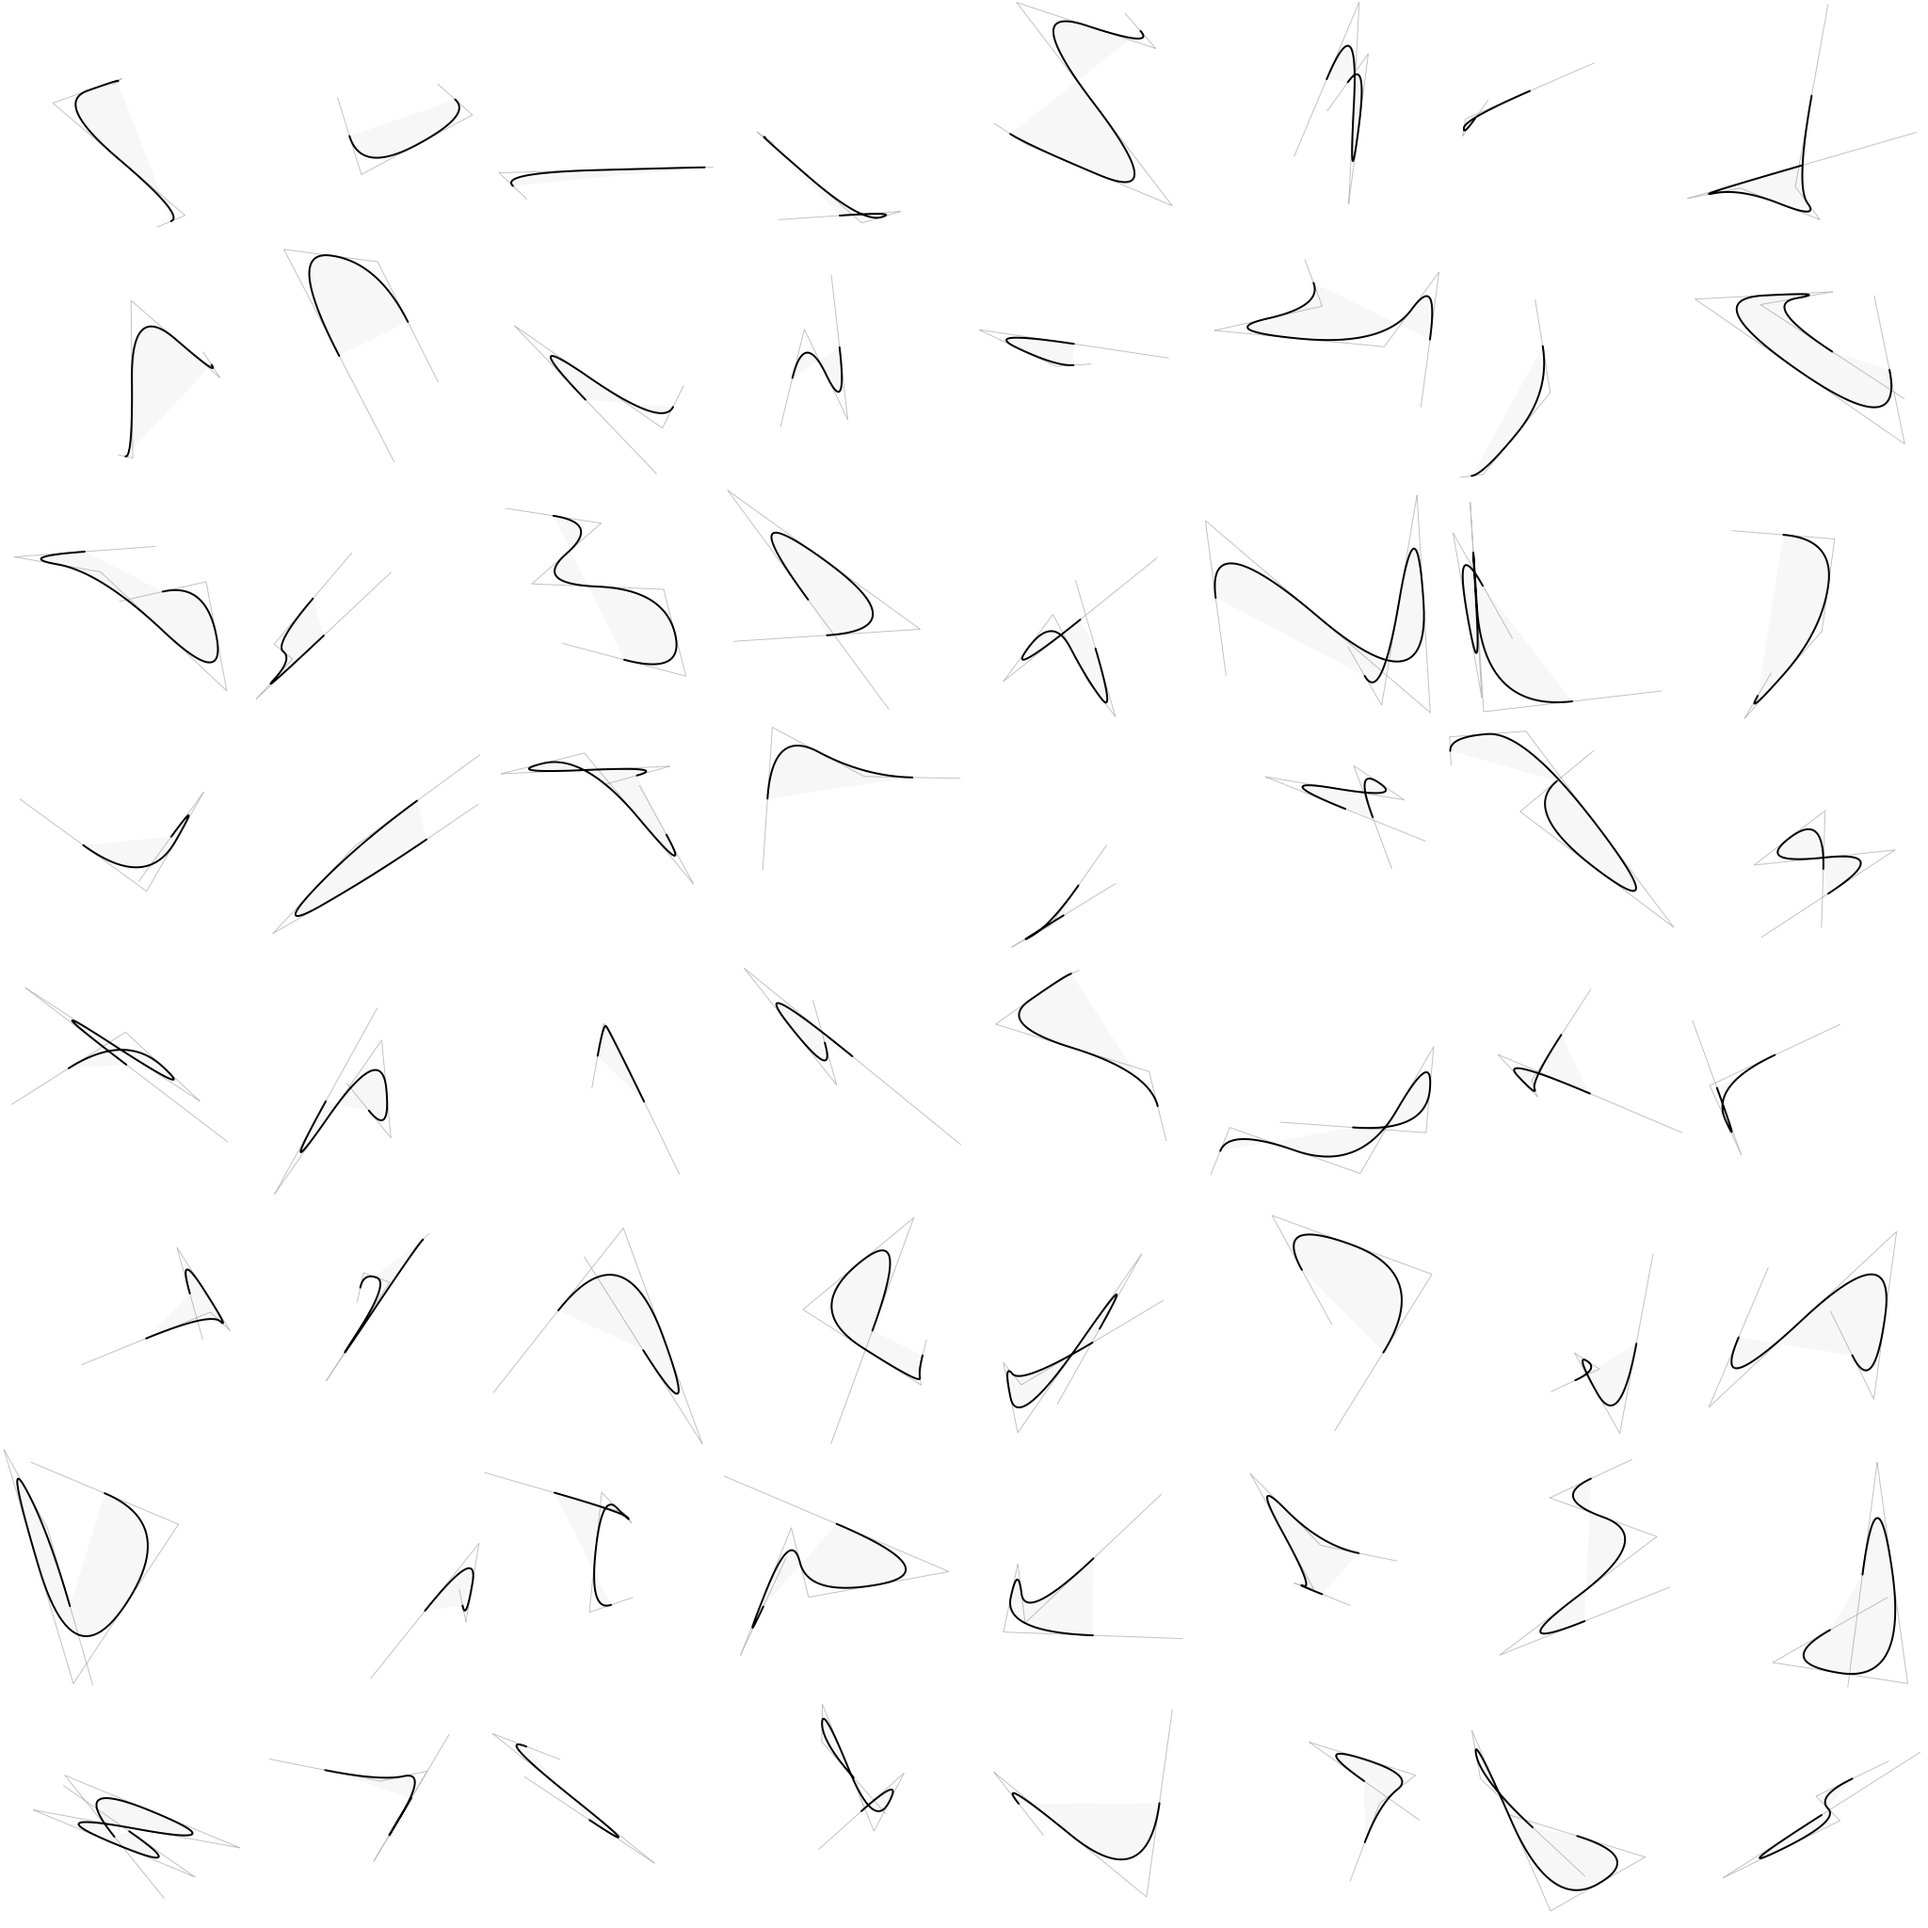
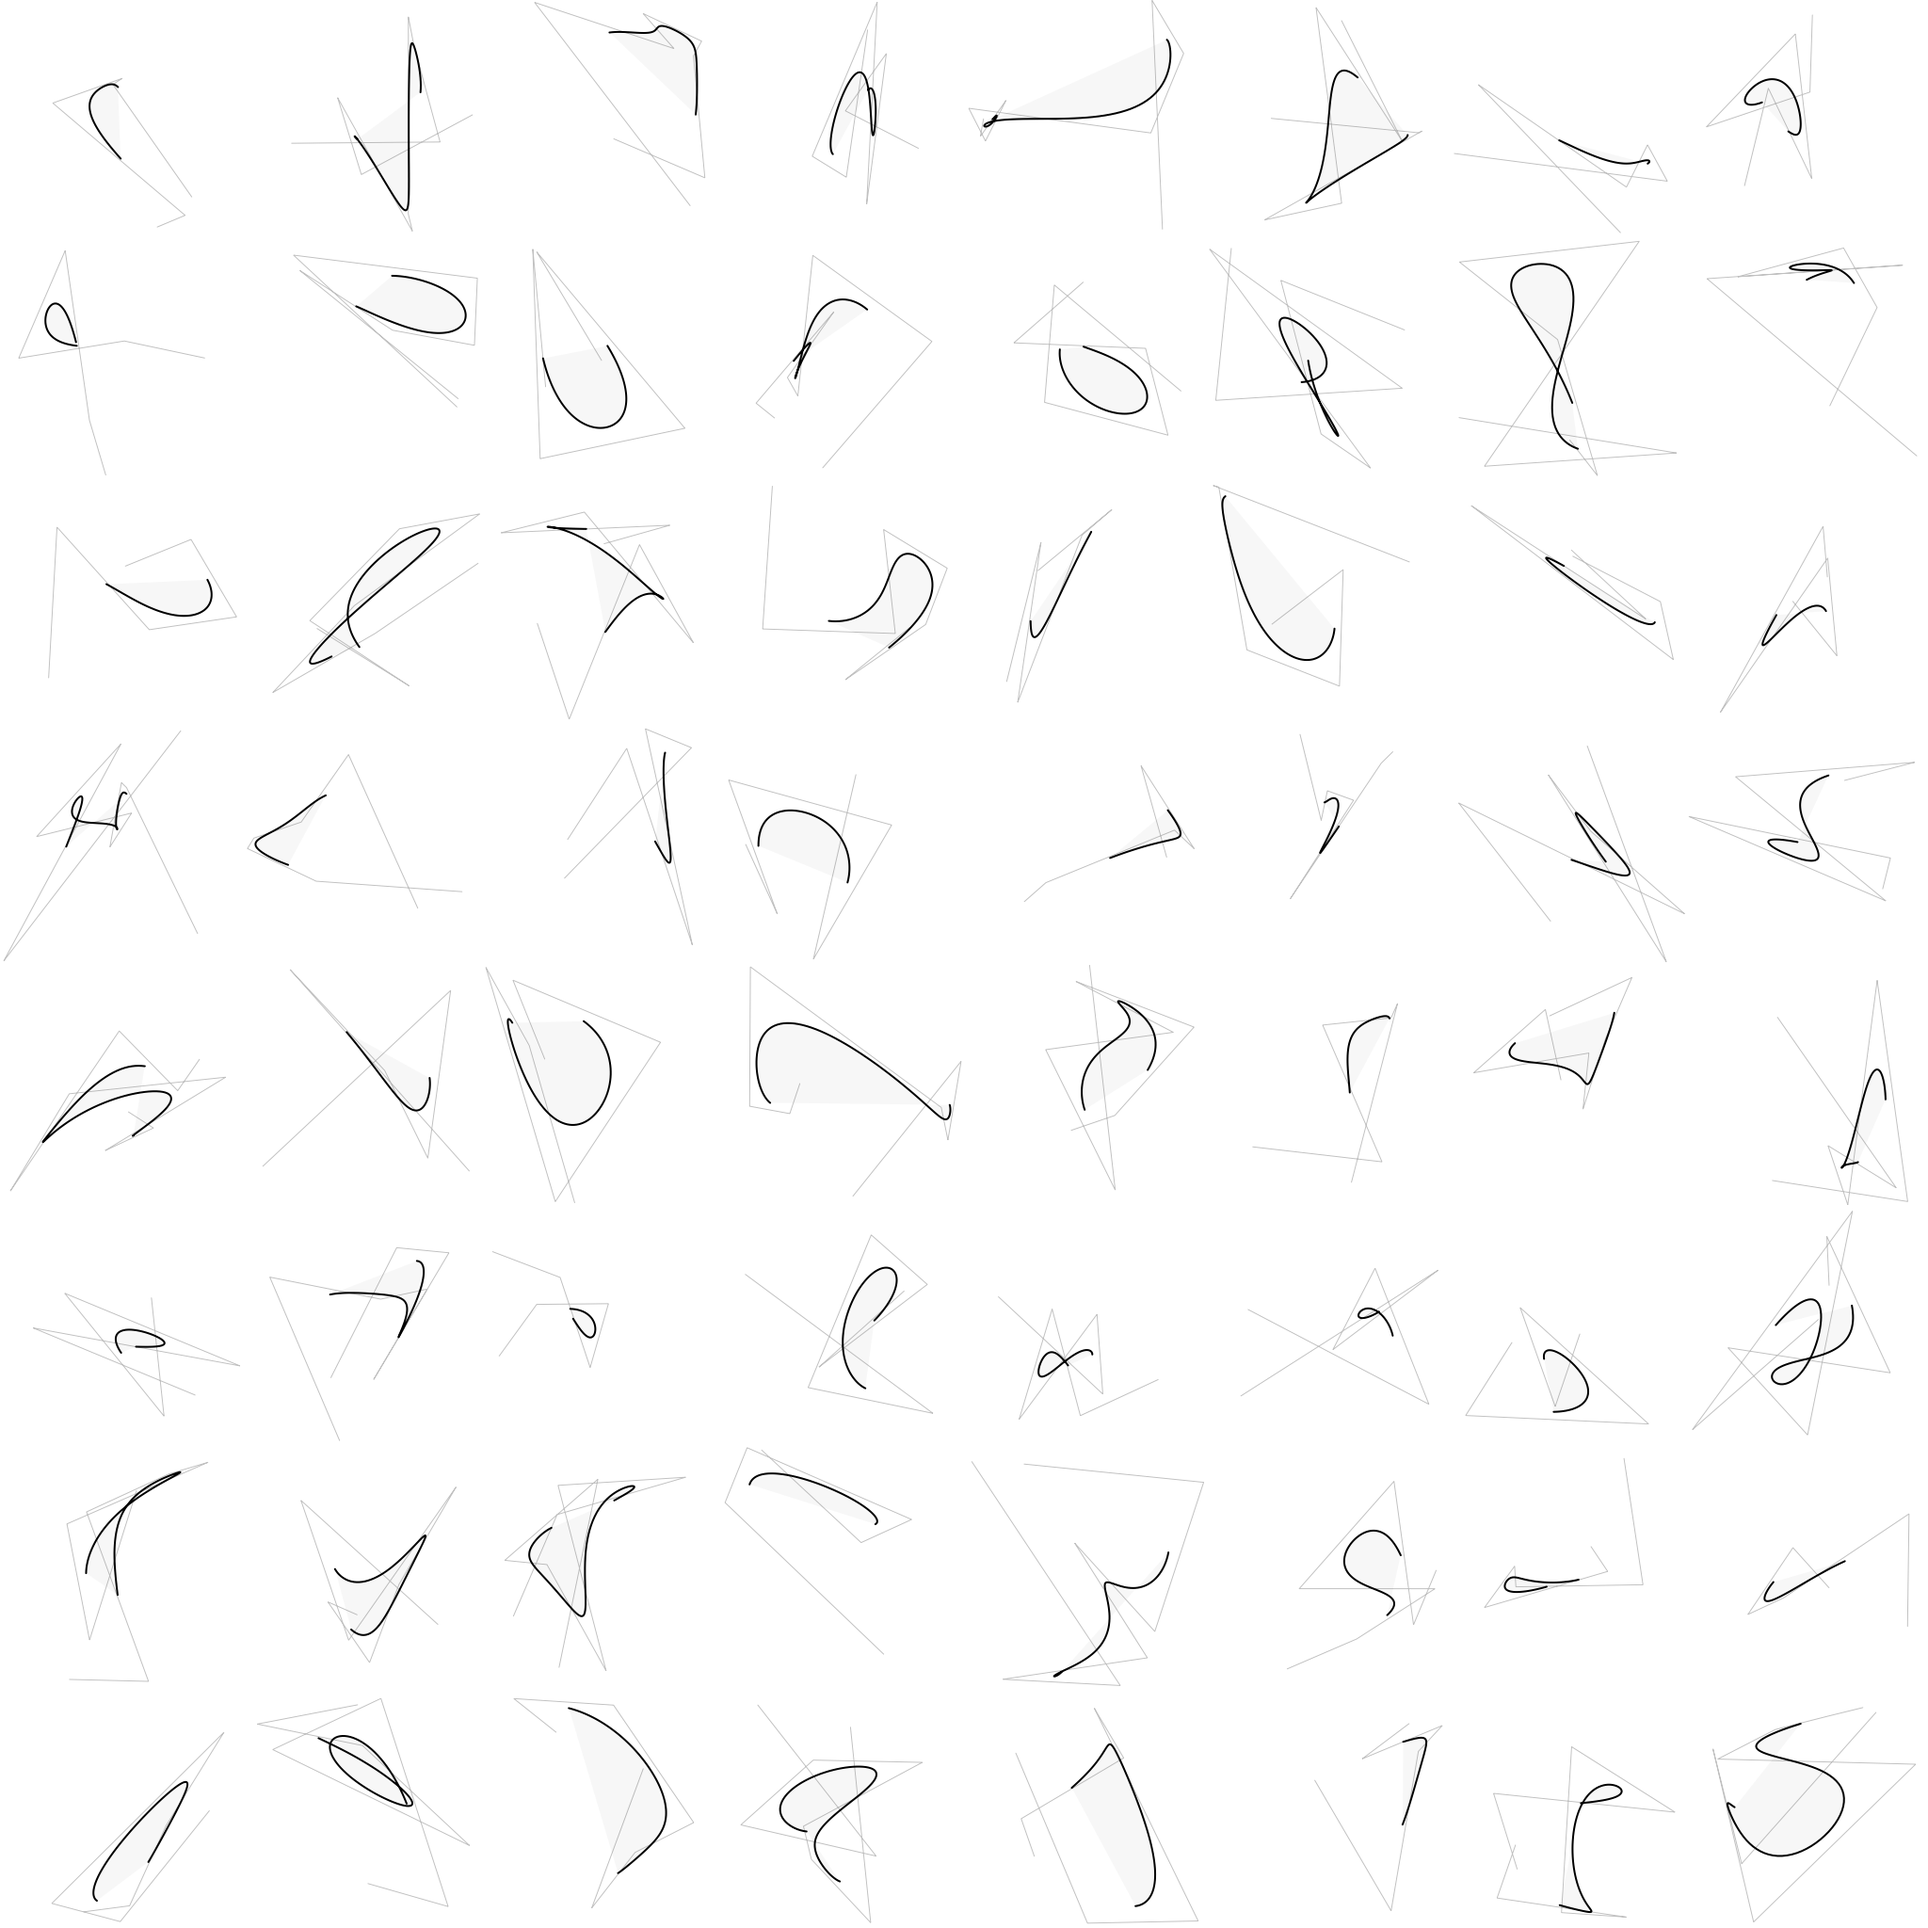
degree control

diff --git a/src/test/spline_test.go b/src/test/spline_test.go
@@ -70,7 +70,7 @@ func TestSplineValid(t *testing.T) {
         0.64, -0.32,
         0.75, -0.25,
     }
-    result := spline.Spline(points, 4, 2, ts)
+    result := spline.Spline(points, 4, 2, 2, ts)
     roundArray(result)
     if !compareArrays(result, expected) {
         t.Errorf(
@@ -91,7 +91,7 @@ func TestSplineIncompletePoints(t *testing.T) {
         1.0,
     }
     expected := []float64{}
-    result := spline.Spline(points, 4, 2, ts)
+    result := spline.Spline(points, 4, 2, 2, ts)
     if !compareArrays(result, expected) {
         t.Errorf(
             "TestSplineIncompletePoints\n"+
@@ -109,7 +109,7 @@ func TestSplineFewPoints(t *testing.T) {
         -0.5, 0.5,
     }
     expected := []float64{}
-    result := spline.Spline(points, 2, 2, ts)
+    result := spline.Spline(points, 2, 2, 2, ts)
     if !compareArrays(result, expected) {
         t.Errorf(
             "TestSplineFewPoints\n"+
@@ -124,6 +124,6 @@ func BenchmarkSpline(b *testing.B) {
     ts := spline.Ts(1000)
     points := []float64{-1.0, 0.0, -0.5, 0.5, 0.5, -0.5, 1.0, 0.0}
     for i := 0; i < b.N; i++ {
-        spline.Spline(points, 4, 2, ts)
+        spline.Spline(points, 4, 2, 2, ts)
     }
 }

diff --git a/main.go b/main.go
@@ -69,13 +69,13 @@ func main() {
             dc.Push()
             dc.Translate(x, y)
             dc.Scale(S/2, S/2)
-            n := rand.Intn(3) + 4
+            n := rand.Intn(4) + 6
             points := randomPoints(n)
             lineThruPoints(dc, drawLines, points)
             lineThruPoints(
                 dc,
                 drawCurve,
-                spline.Spline(points, n, 2, spline.Ts(M)),
+                spline.Spline(points, n, 2, 4, spline.Ts(M)),
             )
             dc.Pop()
         }

diff --git a/src/spline/spline.go b/src/spline/spline.go
@@ -13,8 +13,7 @@ func Ts(n int) []float64 {
     return ts
 }
 
-func Spline(points []float64, n, m int, ts []float64) []float64 {
-    const degree = 2
+func Spline(points []float64, n, m int, degree int, ts []float64) []float64 {
     if ((n * m) != len(points)) || (n <= degree) {
         return []float64{}
     }
